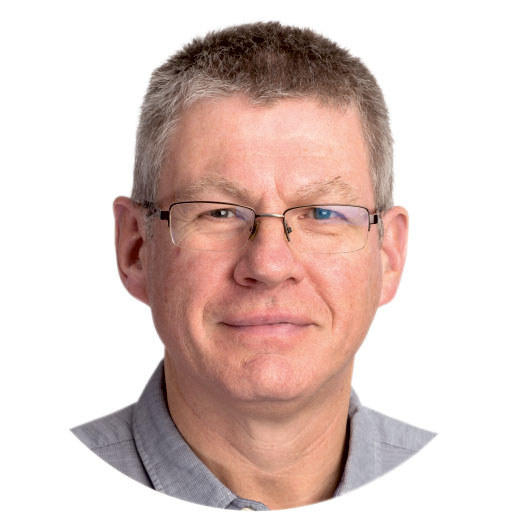
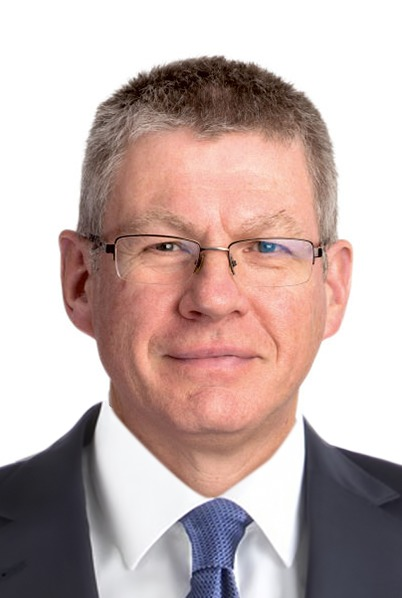
слайдер команды тренеров

diff --git a/app/templates/team-of-trainers.html b/app/templates/team-of-trainers.html
@@ -41,10 +41,48 @@
             <div class="gallery-top__wrap">
                 <div class="swiper-container gallery-top">
                     <div class="swiper-wrapper">
-                        <div class="swiper-slide" style="background-image:url(images/samples/trainer1.jpg)"></div>
-                        <div class="swiper-slide" style="background-image:url(images/samples/trainer2.jpg)"></div>
-                        <div class="swiper-slide" style="background-image:url(images/samples/trainer3.jpg)"></div>
-                        <div class="swiper-slide" style="background-image:url(images/samples/trainer4.jpg)"></div>
+                        <div class="swiper-slide"
+                             data-trainer-post="Инженер программного обеспечения"
+                             data-trainer-info="Андрей обладает уникальным опытом работы в таких компаниях как Таразский металлургический завод и ТОО “Казфосфат”.
+                                На металлургическом заводе он участвовал в монтаже АСУ ТП по управлению новыми руднотермическими печами открытого типа. В производстве ферросплавов занимался монтажом и наладкой систем автоматизации Yokogawa, Honeywell, Siemens.
+                                Аналогичные работы Андрей проводил в Казфосфате. Причем разрабатывал проекты с нуля, начиная с подбора необходимого оборудования для их запуска.
+                                Присоединился к команде Алтыналмаса в 2016 году. На рудниках компании ввел в эксплуатацию визуализацию проектов (HMI), логические схемы управления механизмами на контроллерах Yokogawa, Honeywell, Siemens, Schneider Electric, WinCC Step 7, WInCC Flexble.
+                                Занимался монтажом, настройкой и наладкой приборов КИПиА таких производителей как Vega, Метран, Овен, Phoenix Contact, Yokogawa, Honeywell, Siemens.
+                                "
+                             data-trainer-name="Андрей Дудник">
+                            <div class="trainer__img">
+                                <img src="images/samples/trainer1.jpg">
+                            </div>
+                        </div>
+                        <div class="swiper-slide"
+                             data-trainer-post="Начальник отдела логистики и таможенного сопровождения"
+                             data-trainer-info="Гульмира Шалкибекова имеет 15-ти летний опыт работы в логистике и 12-ти летний опыт работы непосредственно в производстве. В ее профессиональном портфолио участие в проектных группах по строительству заводов по переработке медесодержащих руд."
+                             data-trainer-name="Гульмира Шалкибекова">
+                            <div class="trainer__img">
+                                <img src="images/samples/trainer2.jpg">
+                            </div>
+                        </div>
+                        <div class="swiper-slide"
+                             data-trainer-post="Менеджер по стратегическому развитию"
+                             data-trainer-info="Ерден Уалиевич специализируется на внутреннем контроле, оценке рисков и корпоративном управлении в ресурсных и производственных компаниях. Он занимает позицию менеджера по стратегическому развитию АО «АК Алтыналмас». Ерден участвовал в разработке анализа и дизайна коммерческого направления в проекте внедрения ERP, оптимизировал внутренние контроли и создал информационно-аналитическую инфраструктуру для коммерческого направления компании. До «Алтыналмас» Ерден почти 6 лет проработал в ТОО «Казцинк» (актив Glencore) - компании, которая занимается добычей, обогащением и плавкой цветных металлов. Начав с бюджетного управления Ерден перешел главным специалистом в управление внутреннего аудита и корпоративного развития, где в составе группы аудиторов Glencore принимал участие в аудите управления ремонтами, запасами и контрактования. В «Казцинке» он запустил систему оценки и мониторинга эффективности подрядчиков, а также участвовал в проекте автоматизации тендерного процесса, в результате чего, компания получила внешнюю электронную тендерную платформу для взаимодействия с контрагентами."
+                             data-trainer-name="Ерден Акашев">
+                            <div class="trainer__img">
+                                <img src="images/samples/trainer3.jpg">
+                            </div>
+                        </div>
+                        <div class="swiper-slide"
+                             data-trainer-post="Вице-президент по внутренним сервисам"
+                             data-trainer-info="Эльмира обладает двумя профессиональными международными сертификациями в области управленческого учета и финансовой отчетности.
+В 2009 году  она получила диплом по международной финансовой отчетности Ассоциации присяжных сертифицированных бухгалтеров (АССА ДипИФР), а в 2014 году диплом «Управление эффективностью бизнеса» Международной ассоциации специалистов по управленческому учету Соединенного Королевства Великобритании и Северной Ирландии (CIMARus)
+Свою карьеру в Алтыналмасе Эльмира начала в 2003 году с позиции ведущего бухгалтера, через 3 года стала заместителем главного бухгалтера, а в дальнейшем начальником отдела финансовой отчетности, главным бухгалтером и финансовым контролером.
+В 2017 году Эльмира возглавила Алматинский филиал компании, а через 2 года была назначена вице-президентом по внутренним сервисам.
+Эльмира окончила Алматинский филиал Джамбульского технологического института по специальности «Инженер-технолог» (1991) и Академию труда и социальных отношений (г.Москва) по специальности «Бухгалтерский учет, анализ и аудит»
+"
+                             data-trainer-name="Эльмира Габдуллина">
+                            <div class="trainer__img">
+                                <img src="images/samples/trainer4.jpg">
+                            </div>
+                        </div>
                     </div>
                 </div>
 
@@ -89,10 +127,26 @@
                 </div>
                 <div class="swiper-container gallery-thumbs">
                     <div class="swiper-wrapper">
-                        <div class="swiper-slide" style="background-image:url(images/samples/trainer1.jpg)"></div>
-                        <div class="swiper-slide" style="background-image:url(images/samples/trainer2.jpg)"></div>
-                        <div class="swiper-slide" style="background-image:url(images/samples/trainer3.jpg)"></div>
-                        <div class="swiper-slide" style="background-image:url(images/samples/trainer4.jpg)"></div>
+                        <div class="swiper-slide">
+                            <div class="trainer__img">
+                                <img src="images/samples/trainer1.jpg">
+                            </div>
+                        </div>
+                        <div class="swiper-slide">
+                            <div class="trainer__img">
+                                <img src="images/samples/trainer2.jpg">
+                            </div>
+                        </div>
+                        <div class="swiper-slide">
+                            <div class="trainer__img">
+                                <img src="images/samples/trainer3.jpg">
+                            </div>
+                        </div>
+                        <div class="swiper-slide">
+                            <div class="trainer__img">
+                                <img src="images/samples/trainer4.jpg">
+                            </div>
+                        </div>
                     </div>
                 </div>
             </div>

diff --git a/app/scripts/lib/teamoftrainers.js b/app/scripts/lib/teamoftrainers.js
@@ -1,3 +1,15 @@
+const trainerInfoShow = document.querySelector('.trainer__info')
+const trainerPostShow = document.querySelector('.trainer__fio .post')
+const trainerFioShow = document.querySelector('.trainer__fio .fio')
+const getInfo = (context) =>{
+  const getActiveSlide = context.$wrapperEl[0].querySelector('.swiper-slide-active')
+  // console.log(getActiveSlide.dataset.trainerName, getActiveSlide.dataset.trainerInfo, getActiveSlide.dataset.trainerPost)
+  trainerInfoShow.innerHTML = getActiveSlide.dataset.trainerInfo
+  trainerPostShow.innerHTML = getActiveSlide.dataset.trainerPost
+  trainerFioShow.innerHTML = getActiveSlide.dataset.trainerName
+}
+
+
 const galleryThumbs = new Swiper('.team-of-trainers-content .gallery-thumbs', {
   spaceBetween: 28,
   slidesPerView: 4,
@@ -9,7 +21,7 @@ const galleryThumbs = new Swiper('.team-of-trainers-content .gallery-thumbs', {
 });
 const galleryTop = new Swiper('.team-of-trainers-content .gallery-top', {
   spaceBetween: 10,
-  loop:true,
+  loop: true,
   loopedSlides: 5, //looped slides should be the same
   navigation: {
     nextEl: '.team-of-trainers-content .btn-slide-next',
@@ -18,4 +30,23 @@ const galleryTop = new Swiper('.team-of-trainers-content .gallery-top', {
   thumbs: {
     swiper: galleryThumbs,
   },
+  on: {
+    init: function () {
+     getInfo(this)
+  
+      // trainerInfoShow.innerHTML = getActiveSlide.dataset.trainerInfo
+    },
+  },
 });
+
+
+galleryTop.on('slideChangeTransitionEnd', function (e) {
+  // const getActiveSlide = this.$wrapperEl[0].querySelector('.swiper-slide-active')
+  // console.log(getActiveSlide.dataset.trainerName, getActiveSlide.dataset.trainerInfo, getActiveSlide.dataset.trainerPost)
+  //
+  
+  
+  getInfo(this)
+});
+
+

diff --git a/app/styles/components/_team-of-trainers.scss b/app/styles/components/_team-of-trainers.scss
@@ -58,7 +58,7 @@
   }
   
   .gallery-thumbs {
-    height: 183px;
+    height: 250px;
     box-sizing: border-box;
     width: 100%;
   }
@@ -90,6 +90,7 @@
         line-height: 26px;
         color: #002C4D;
         margin-bottom: 4px;
+        height: 50px;
       }
       
       .fio {
@@ -98,6 +99,12 @@
         line-height: 35px;
         color: #000;
         margin-bottom: 36px;
+      }
+    }
+    
+    &__img{
+      img{
+        max-width: 100%;
       }
     }
   }

diff --git a/app/styles/_type.scss b/app/styles/_type.scss
@@ -75,7 +75,7 @@ a {
 	color: $link-color;
 	text-decoration: none;
 	outline: none !important;
-	transition: .2s color;
+	transition: color .2s ease-in-out;
 
 	&:hover,
 	&:focus {
@@ -83,6 +83,12 @@ a {
 		text-decoration: none;
 	}
 
+  &.btn{
+    &:hover{
+      color: #d0b37b;
+      transition: color .2s ease-in-out;
+    }
+  }
 }
 
 .list-unstyled {

diff --git a/app/scripts/lib/historySlider.js b/app/scripts/lib/historySlider.js
@@ -41,7 +41,6 @@ if (historySliderActive) {
       activeInfo.classList.add('red');
       activeDataYear.innerHTML = changeData;
       activeInfo.innerHTML = changeInfo;
-      // console.log(changeInfo)
     })
   })
   
